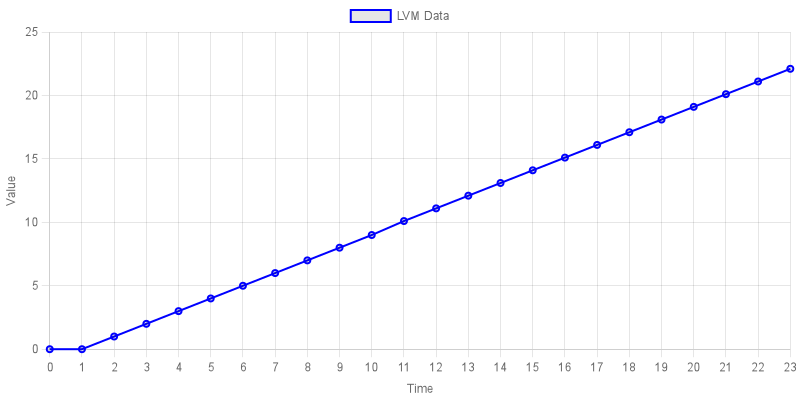
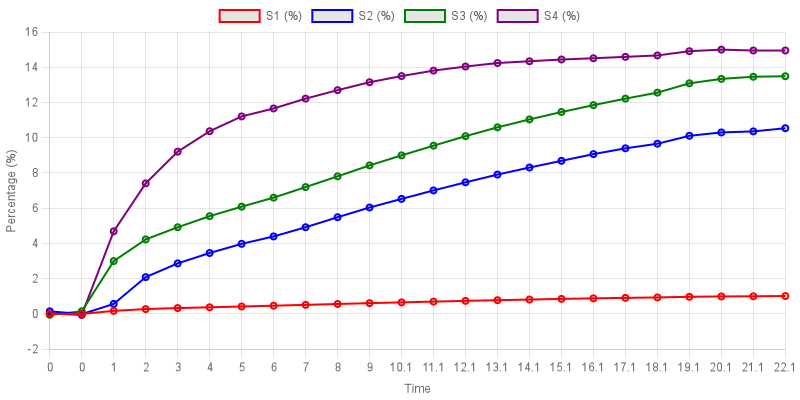
improve the graph generation function

diff --git a/server.js b/server.js
@@ -46,6 +46,7 @@ app.post("/upload", upload.single("file"), async (req, res) => {
         // Read and parse the .lvm file
         const rawData = fs.readFileSync(filePath, "utf-8");
         const data = parseLVM(rawData);
+        console.log(data[2]); //sdfsdf
 
         // Generate Excel file
         const excelPath = path.join(outputDir, `${fileName}.xlsx`);
@@ -87,28 +88,33 @@ async function createExcelWithChart(data, filePath) {
 
 // Create a PNG graph using Chart.js
 async function createChartImage(data, filePath) {
-    const canvas = new ChartJSNodeCanvas({ width, height, chartCallback });
+    const canvas = new ChartJSNodeCanvas({ width, height });
+
+    console.log(data);
+
+    // Extracting columns from the dataset
+    const timeValues = data.map(row => row[1]); // Extract Time from column 1
+    const s1Values = data.map(row => row[5]);  // Extract S1 (%) from column 5
+    const s2Values = data.map(row => row[6]);  // Extract S2 (%) from column 6
+    const s3Values = data.map(row => row[7]);  // Extract S3 (%) from column 7
+    const s4Values = data.map(row => row[8]);  // Extract S4 (%) from column 8
+
+    const datasets = [
+        { label: "S1 (%)", data: s1Values, borderColor: "red", borderWidth: 2, fill: false },
+        { label: "S2 (%)", data: s2Values, borderColor: "blue", borderWidth: 2, fill: false },
+        { label: "S3 (%)", data: s3Values, borderColor: "green", borderWidth: 2, fill: false },
+        { label: "S4 (%)", data: s4Values, borderColor: "purple", borderWidth: 2, fill: false }
+    ];
 
     const chartConfig = {
         type: "line",
-        data: {
-            labels: data.map((row, index) => index), // X-axis
-            datasets: [
-                {
-                    label: "LVM Data",
-                    data: data.map((row) => row[1]), // Y-axis
-                    borderColor: "blue",
-                    borderWidth: 2,
-                    fill: false,
-                },
-            ],
-        },
+        data: { labels: timeValues, datasets },
         options: {
             scales: {
                 x: { title: { display: true, text: "Time" } },
-                y: { title: { display: true, text: "Value" } },
-            },
-        },
+                y: { title: { display: true, text: "Percentage (%)" } }
+            }
+        }
     };
 
     const imageBuffer = await canvas.renderToBuffer(chartConfig);
